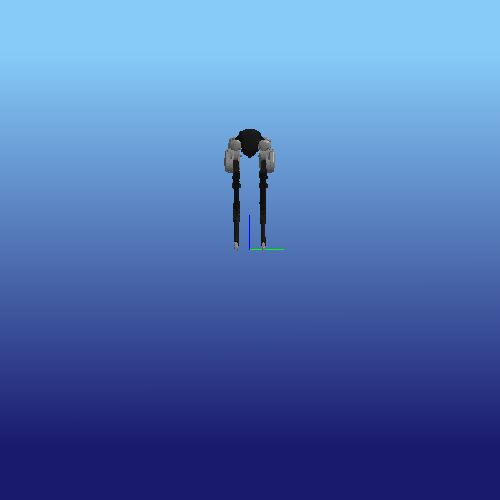
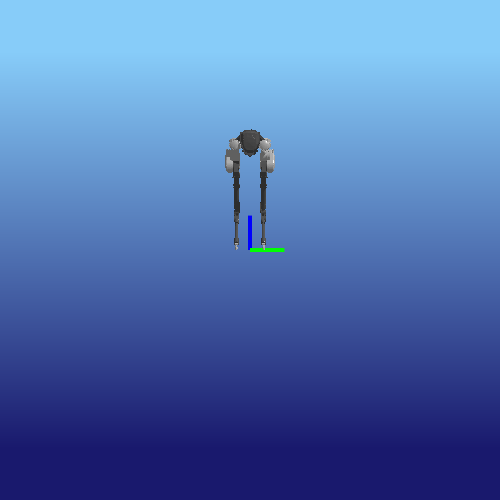
[misc] Fix Windows 10 CI unit tests. (#314)
* [python/viewer] Add support of 'capture_frame' as raw data for panda3d.
* [misc] Update panda3d units tests screenshots.
* [misc] Fix Window scripts cmake targets.
* [misc] Update release patch tag.

Changed region(s): [[0.45, 0.24, 0.57, 0.51]]

diff --git a/python/jiminy_py/src/jiminy_py/viewer/viewer.py b/python/jiminy_py/src/jiminy_py/viewer/viewer.py
@@ -381,6 +381,8 @@ class Viewer:
                         # cases, but there is no fixed rule.
                         open_gui_if_parent = interactive_mode() and \
                             not Viewer._backend_obj.comm_manager.n_comm
+                    elif Viewer.backend.startswith('panda3d'):
+                        open_gui_if_parent = not interactive_mode()
                     else:
                         open_gui_if_parent = True
 
@@ -1316,6 +1318,7 @@ class Viewer:
                 img_obj = Image.open(f.name)
                 rgba_array = np.array(img_obj)
         elif Viewer.backend.startswith('panda3d'):
+            # Resize window if size has changed
             _width, _height = self._gui._app.getSize()
             if width is None:
                 width = _width
@@ -1327,8 +1330,14 @@ class Viewer:
             # Call low-level `get_screenshot` directly to get raw buffer
             buffer = self._gui._app.get_screenshot(
                 requested_format='RGB', raw=True)
-            array = np.frombuffer(buffer, np.uint8).reshape((height, width, 3))
-            return np.flipud(array)
+
+            # Return raw data if requested
+            if raw_data:
+                return buffer
+
+            # Return numpy array RGB
+            rgb_array = np.frombuffer(buffer, np.uint8)
+            return np.flipud(rgb_array.reshape((height, width, 3)))
         else:
             # Send capture frame request to the background recorder process
             img_html = Viewer._backend_obj.capture_frame(width, height)
@@ -1336,12 +1345,15 @@ class Viewer:
             # Parse the output to remove the html header, and convert it into
             # the desired output format.
             img_data = str.encode(img_html.split(",", 1)[-1])
-            img_raw = base64.decodebytes(img_data)
+            buffer = base64.decodebytes(img_data)
+
+            # Return raw data if requested
             if raw_data:
-                return img_raw
-            else:
-                img_obj = Image.open(io.BytesIO(img_raw))
-                rgba_array = np.array(img_obj)
+                return buffer
+
+            # Return numpy array RGB
+            img_obj = Image.open(io.BytesIO(buffer))
+            rgba_array = np.array(img_obj)
             return rgba_array[:, :, :-1]
 
     @__must_be_open
